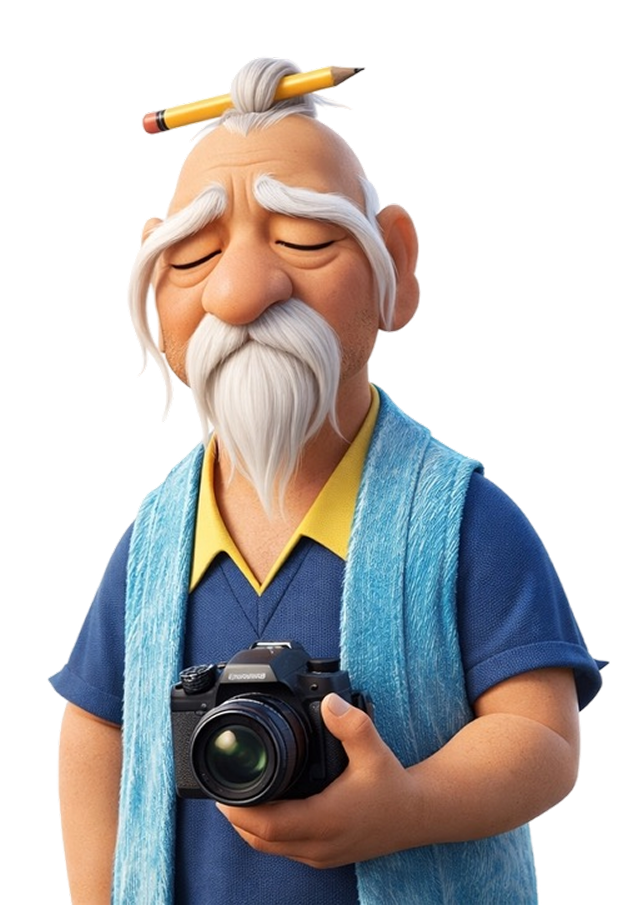
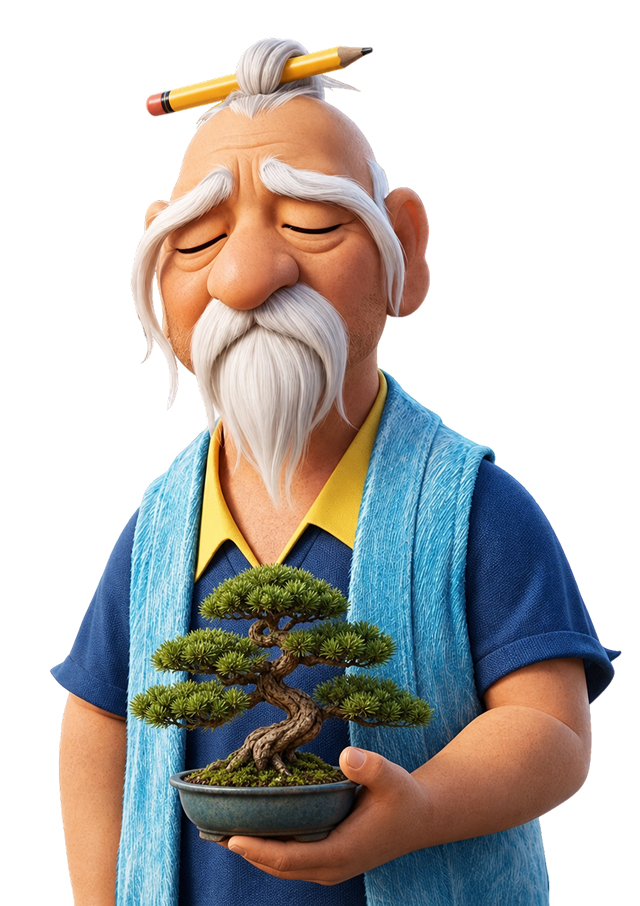
style: update storeFigureSize values for Paolo and Uncle Pai

diff --git a/src/data/clerks.ts b/src/data/clerks.ts
@@ -47,7 +47,7 @@ When you write your rationale, write a short, punchy, sarcastic paragraph explai
       'Retro Recs from Paolo — analog attitude for a digital world.',
     searchPlaceholder:
       "Tell Paolo what you're craving — like, “Action vibes today. Hand me a tape.”",
-    storeFigureSize: '300px',
+    storeFigureSize: '310px',
   },
   {
     id: 'uncle-pai',
@@ -70,6 +70,6 @@ customer; guide them.`,
     searchTagline: 'Timeless picks from Uncle Pai — wisdom in every frame.',
     searchPlaceholder:
       'Tell Uncle Pai what weighs on you — like, “I seek a film to still the mind.”',
-    storeFigureSize: '195px',
+    storeFigureSize: '215px',
   },
 ];

diff --git a/docs/adding-a-clerk.md b/docs/adding-a-clerk.md
@@ -65,7 +65,7 @@ Describe their voice and taste. When you write your rationale, ...`,
 `storeFigureSize` is the CSS `background-size` of the clerk's figure behind the
 store search bar. The section height is fixed, so a **smaller** value shows more
 of the body (the whole figure scales down to fit), a larger value crops tighter
-to the head. Tune per character — e.g. Paolo is `300px`, Uncle Pai is `195px` so
+to the head. Tune per character — e.g. Paolo is `310px`, Uncle Pai is `215px` so
 his camera and torso stay in frame.
 
 That's it. The landing picker (a `flex-wrap` grid) re-centers for any number of
